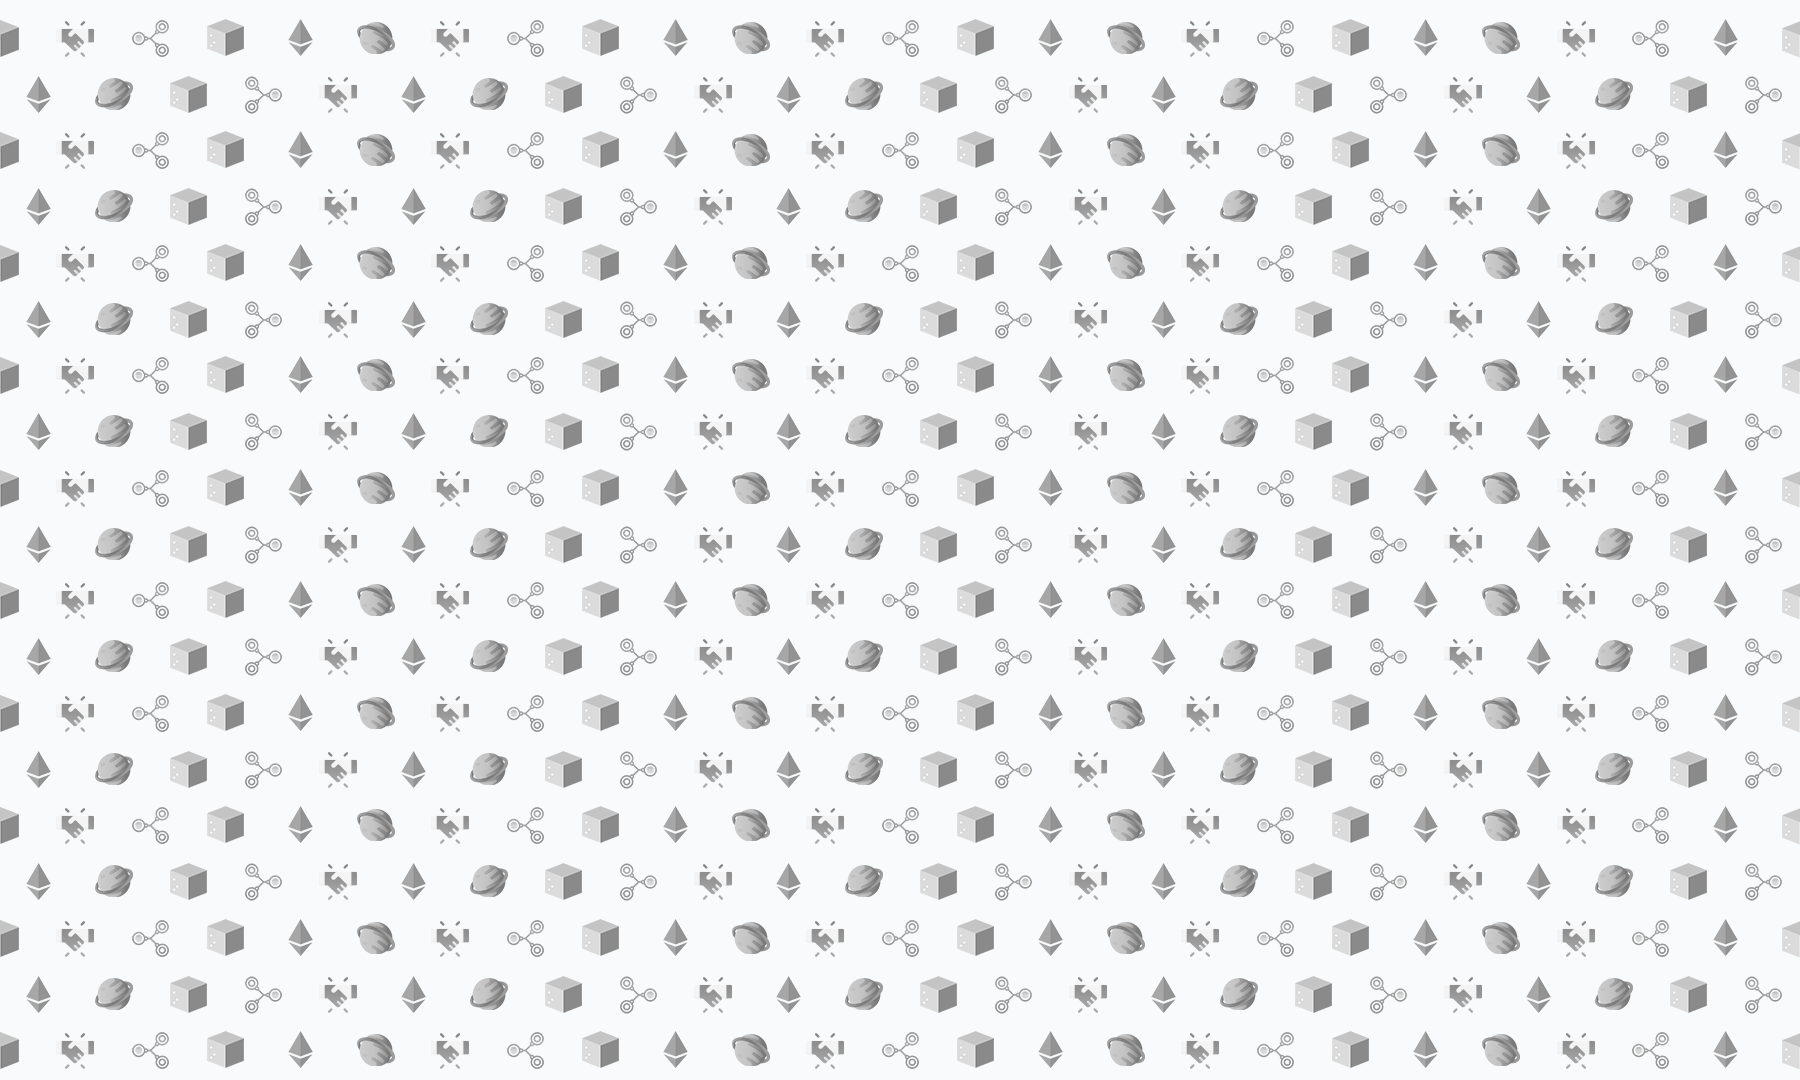
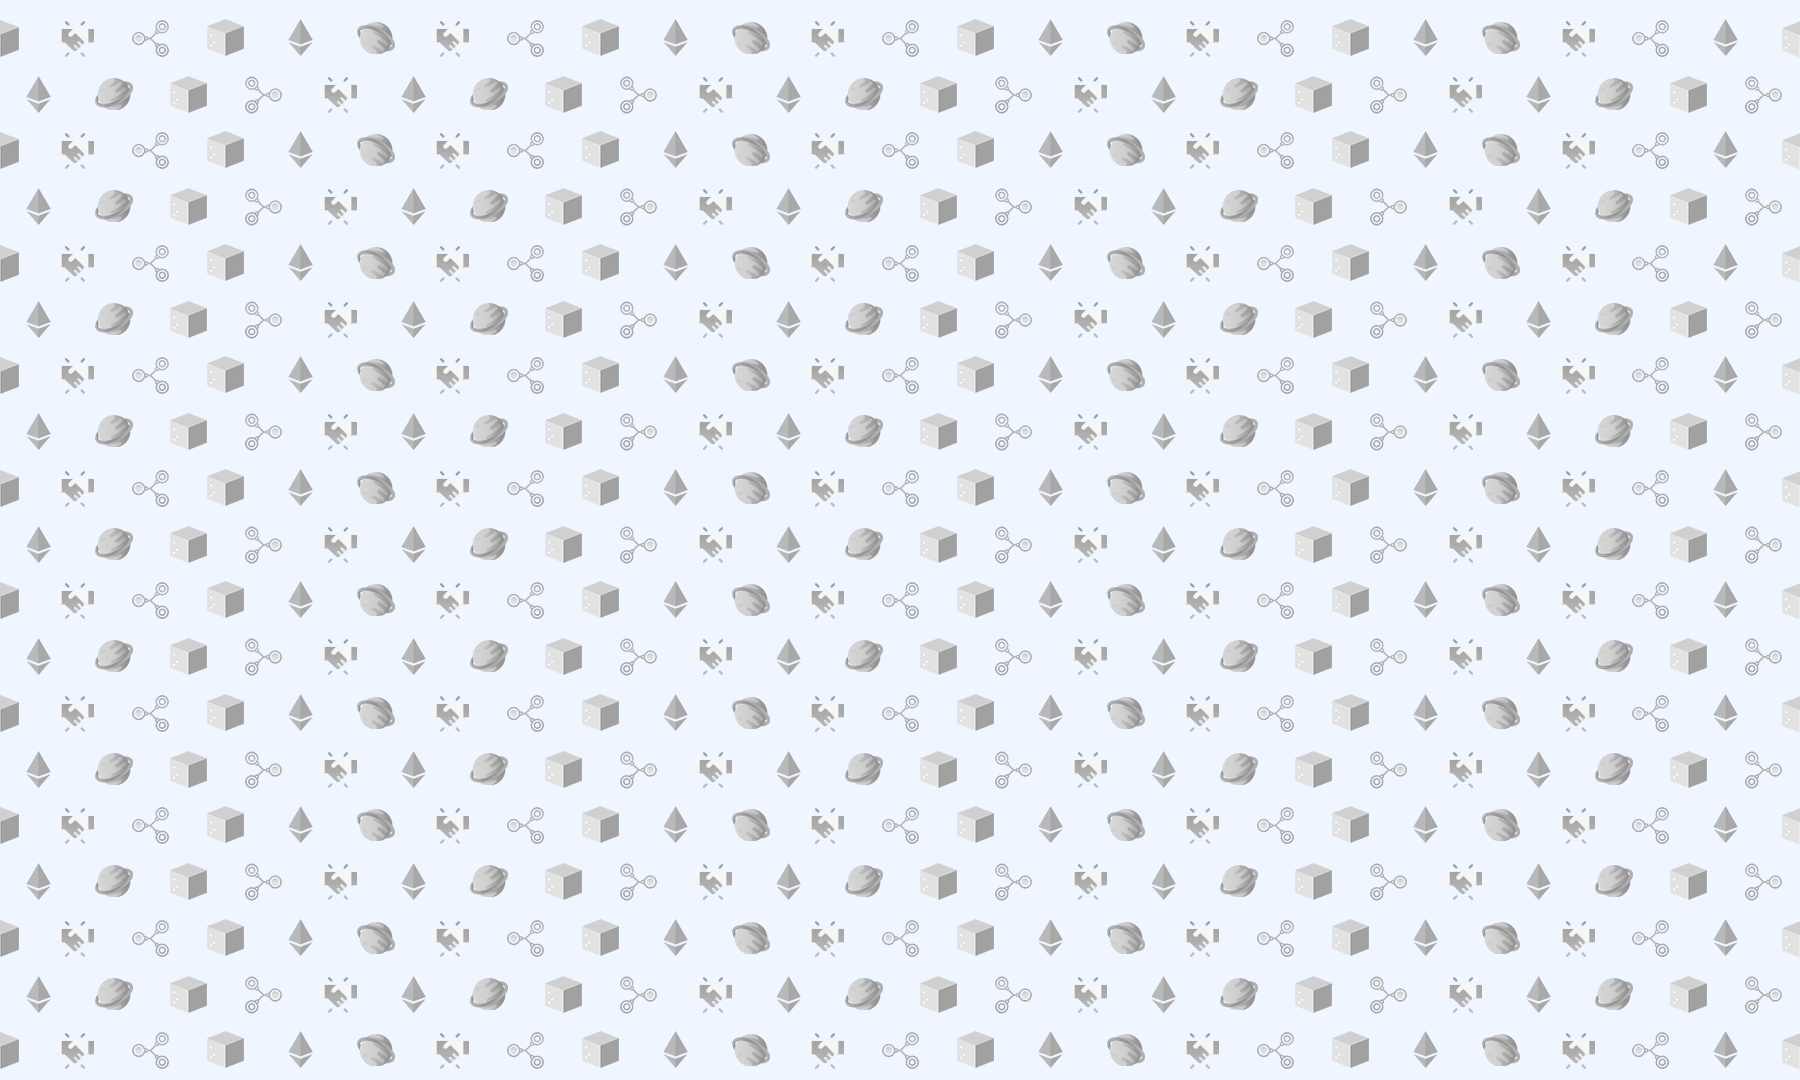
UI Changes

diff --git a/components/Navbar.js b/components/Navbar.js
@@ -1,7 +1,9 @@
 import { Fragment, useContext, useEffect } from "react";
+import Image from "next/image";
 import { Disclosure, Menu, Transition } from "@headlessui/react";
 import { BellIcon, MenuIcon, XIcon } from "@heroicons/react/outline";
 import { FaWallet, FaCopy } from "react-icons/fa";
+import metamaskLogo from "../public/metamask.png";
 
 const navigation = [
   { name: "Marketplace", href: "/marketplace", current: false },
@@ -111,33 +113,63 @@ const Navbar = (props) => {
                                   <FaCopy className="text-black" />
                                 </div>
                               </div>
+                              <Menu.Item>
+                                <a
+                                  href="#"
+                                  className="block px-4 py-2 text-sm text-gray-700 hover:bg-gray-100"
+                                >
+                                  My collection
+                                </a>
+                              </Menu.Item>
+                              <Menu.Item>
+                                <a
+                                  href="#"
+                                  className="block px-4 py-2 text-sm text-gray-700 hover:bg-gray-100"
+                                >
+                                  Log out
+                                </a>
+                              </Menu.Item>
                               <div className="flex items-center px-4 space-x-2 py-2 text-xs font-medium text-gray-500">
                                 <div>Total balance:</div>
                                 <div>{props.balance}</div>
                               </div>
                             </>
                           ) : (
-                            <div className="px-4 py-3 font-semibold flex justify-between items-center border-b">
-                              Your wallet is not connected!
-                            </div>
-                          )}
+                            <>
+                              <div className="px-4 py-3 font-semibold flex justify-between items-center border-b">
+                                Your wallet is not connected!
+                              </div>
+                              <div className="px-4 py-2 text-gray-600 font-medium text-xs">
+                                Please select a wallet to connect to:
+                              </div>
+                              {props.account.length == 0 && props.connected && (
+                                <div className="flex items-center space-x-1 px-4 py-2 cursor-pointer hover:bg-gray-100">
+                                  <div className="relative h-8 w-8">
+                                    <Image
+                                      src={metamaskLogo}
+                                      objectFit="cover"
+                                      layout="fill"
+                                    />
+                                  </div>
 
-                          <Menu.Item>
-                            <a
-                              href="#"
-                              className="block px-4 py-2 text-sm text-gray-700 hover:bg-gray-100"
-                            >
-                              My collection
-                            </a>
-                          </Menu.Item>
-                          <Menu.Item>
-                            <a
-                              href="#"
-                              className="block px-4 py-2 text-sm text-gray-700 hover:bg-gray-100"
-                            >
-                              Log out
-                            </a>
-                          </Menu.Item>
+                                  <button
+                                    onClick={() => {
+                                      window.ethereum
+                                        .request({
+                                          method: "eth_requestAccounts",
+                                        })
+                                        .catch((err) => {
+                                          console.log(err, "err");
+                                        });
+                                    }}
+                                    className="font-bold tracking-wide"
+                                  >
+                                    MetaMask
+                                  </button>
+                                </div>
+                              )}
+                            </>
+                          )}
                         </Menu.Items>
                       </Transition>
                     </>

diff --git a/pages/index.js b/pages/index.js
@@ -81,48 +81,51 @@ export default function Home(props) {
         <title>Dapper</title>
         <link rel="icon" href="/favicon.ico" />
       </Head>
-
-      <div className="pb-16 md:pt-24 sm:pt-12 pt-6 container mx-auto flex flex-wrap flex-col items-center w-full text-gray-900 px-4">
-        <div className="grid md:grid-cols-2 w-full grid-cols-1">
-          <div className="2xl:pl-36 space-y-12 pt-2 md:order-1 order-2">
-            <div className="space-y-1">
-              <div className="xl:text-7xl md:text-6xl sm:text-7xl text-5xl font-semibold">
-                Welcome to
+      <div class="bg-gradient-to-t from-blue-50 to-blue-300">
+        <div className="pb-16 md:pt-24 sm:pt-12 pt-6 container mx-auto flex flex-wrap flex-col items-center w-full text-gray-900 px-4 ">
+          <div className="grid md:grid-cols-2 w-full grid-cols-1">
+            <div className="2xl:pl-36 space-y-12 pt-2 md:order-1 order-2">
+              <div className="space-y-1">
+                <div className="xl:text-7xl md:text-6xl sm:text-7xl text-5xl font-semibold">
+                  Welcome to
+                </div>
+                <div className="xl:text-8xl lg:text-7xl sm:text-8xl text-7xl text-blue-600 font-bold">
+                  Dapper
+                </div>
               </div>
-              <div className="xl:text-8xl lg:text-7xl sm:text-8xl text-7xl text-blue-600 font-bold">
-                Dapper
+              <div>
+                <div className="text-2xl text-gray-700">
+                  The greeting we all know and love, now digitalized.
+                </div>
               </div>
-            </div>
-            <div>
-              <div className="text-2xl text-gray-700">
-                The greeting we all know and love, now digitalized.
-              </div>
-            </div>
-            <div className="space-x-8 flex">
-              {props.account.length == 0 && props.connected && (
-                <button
-                  onClick={() => {
-                    window.ethereum.request({ method: "eth_requestAccounts" });
-                  }}
-                  className="lg:p-4 sm:p-3 p-1.5 bg-gray-800 ring-2 ring-gray-900 text-white rounded-sm hover:bg-gray-700 hover:ring-gray-800 delay-50 ease-in-out"
-                >
-                  Connect wallet
+              <div className="space-x-8 flex">
+                {props.account.length == 0 && props.connected && (
+                  <button
+                    onClick={() => {
+                      window.ethereum.request({
+                        method: "eth_requestAccounts",
+                      });
+                    }}
+                    className="lg:p-4 sm:p-3 p-1.5 bg-gray-800 ring-2 ring-gray-900 text-white rounded-sm hover:bg-gray-700 hover:ring-gray-800 delay-50 ease-in-out"
+                  >
+                    Connect wallet
+                  </button>
+                )}
+                <button className="lg:p-4 p-1.5 bg-blue-600 ring-2 ring-blue-500 text-white rounded-sm hover:bg-blue-500 hover:ring-blue-400 delay-50 ease-in-out">
+                  <a href="/marketplace">Explore our marketplace &rarr;</a>
                 </button>
-              )}
-              <button className="lg:p-4 p-1.5 bg-blue-600 ring-2 ring-blue-500 text-white rounded-sm hover:bg-blue-500 hover:ring-blue-400 delay-50 ease-in-out">
-                <a href="/marketplace">Explore our marketplace &rarr;</a>
-              </button>
+              </div>
             </div>
-          </div>
 
-          <div className="order-1 md:order-2">
-            <Image src={imgHandshake} />
+            <div className="order-1 md:order-2">
+              <Image src={imgHandshake} />
+            </div>
           </div>
         </div>
       </div>
       {/* WHAT IS DAPPER */}
       <div className=" h-auto py-20 bg-hero-pattern px-4 sm:px-8">
-        <div className="flex justify-center items-center bg-blue-100 p-8 mx-auto max-w-4xl rounded-md">
+        <div className="flex justify-center items-center bg-white p-8 mx-auto max-w-4xl rounded-md">
           <div className="grid sm:grid-cols-2 w-full space-y-4">
             <div className="flex flex-col justify-center">
               <Image src={imgHandshake} />

diff --git a/pages/marketplace.js b/pages/marketplace.js
@@ -1,8 +1,5 @@
-import React, { useState, Fragment } from "react";
-import { Dialog, Disclosure, Menu, Transition } from "@headlessui/react";
-
-import { BellIcon, MenuIcon, XIcon } from "@heroicons/react/outline";
-import { FaWallet, FaAngleLeft, FaAngleRight } from "react-icons/fa";
+import React, { useState } from "react";
+import { FaAngleLeft, FaAngleRight, FaFilter } from "react-icons/fa";
 
 const navigation = [
   { name: "Marketplace", href: "/marketplace", current: false },
@@ -26,9 +23,13 @@ const Marketplace = () => {
         <div className="flex w-full">
           {open ? (
             <div
-              className="flex w-full justify-end items-center mt-0.5 border-b p-4 hover:shadow-md cursor-pointer"
+              className="flex w-full justify-between items-center mt-0.5 border-b p-4 hover:shadow-md cursor-pointer"
               onClick={() => setOpen(false)}
             >
+              <div className="flex items-center space-x-1.5">
+                <FaFilter />
+                <div className="text-gray-900">Filter</div>
+              </div>
               <FaAngleLeft className="block h-6 w-6" aria-hidden="true" />
             </div>
           ) : (

diff --git a/pages/_app.js b/pages/_app.js
@@ -130,7 +130,7 @@ function MyApp({ Component, pageProps }) {
 
   return (
     <div className="">
-      <Navbar account={account} balance={balance} />
+      <Navbar account={account} balance={balance} connected={connected} />
       <Component {...pageProps} account={account} connected={connected} />
       <Footer />
     </div>
